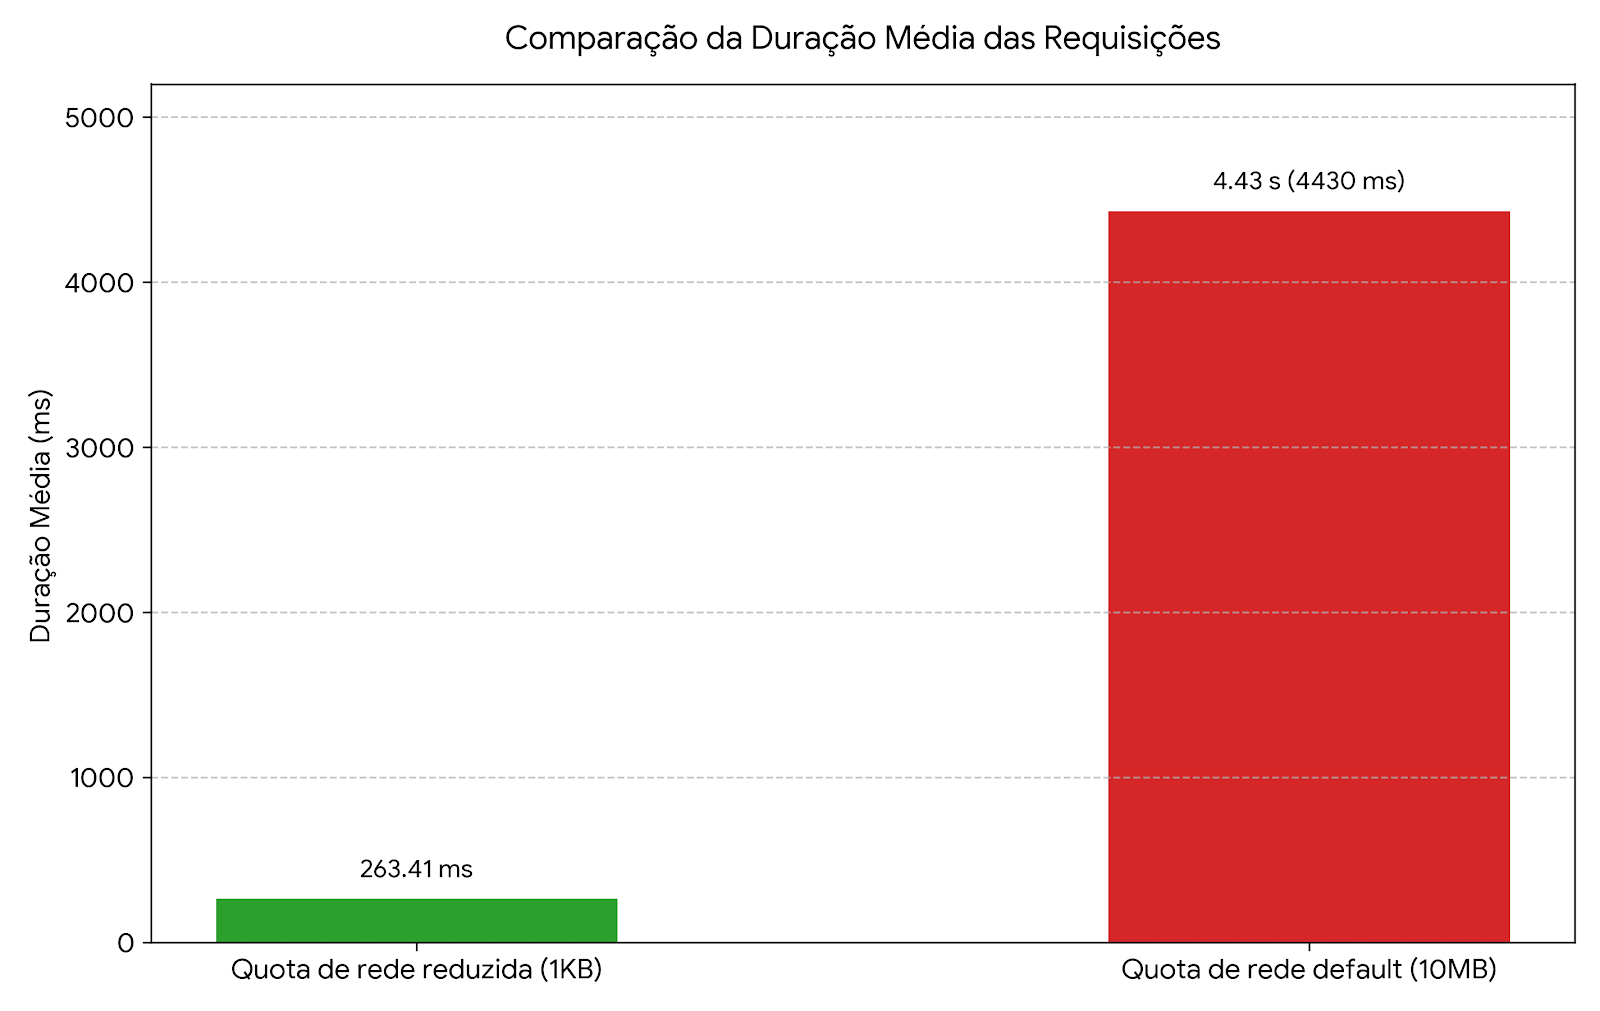
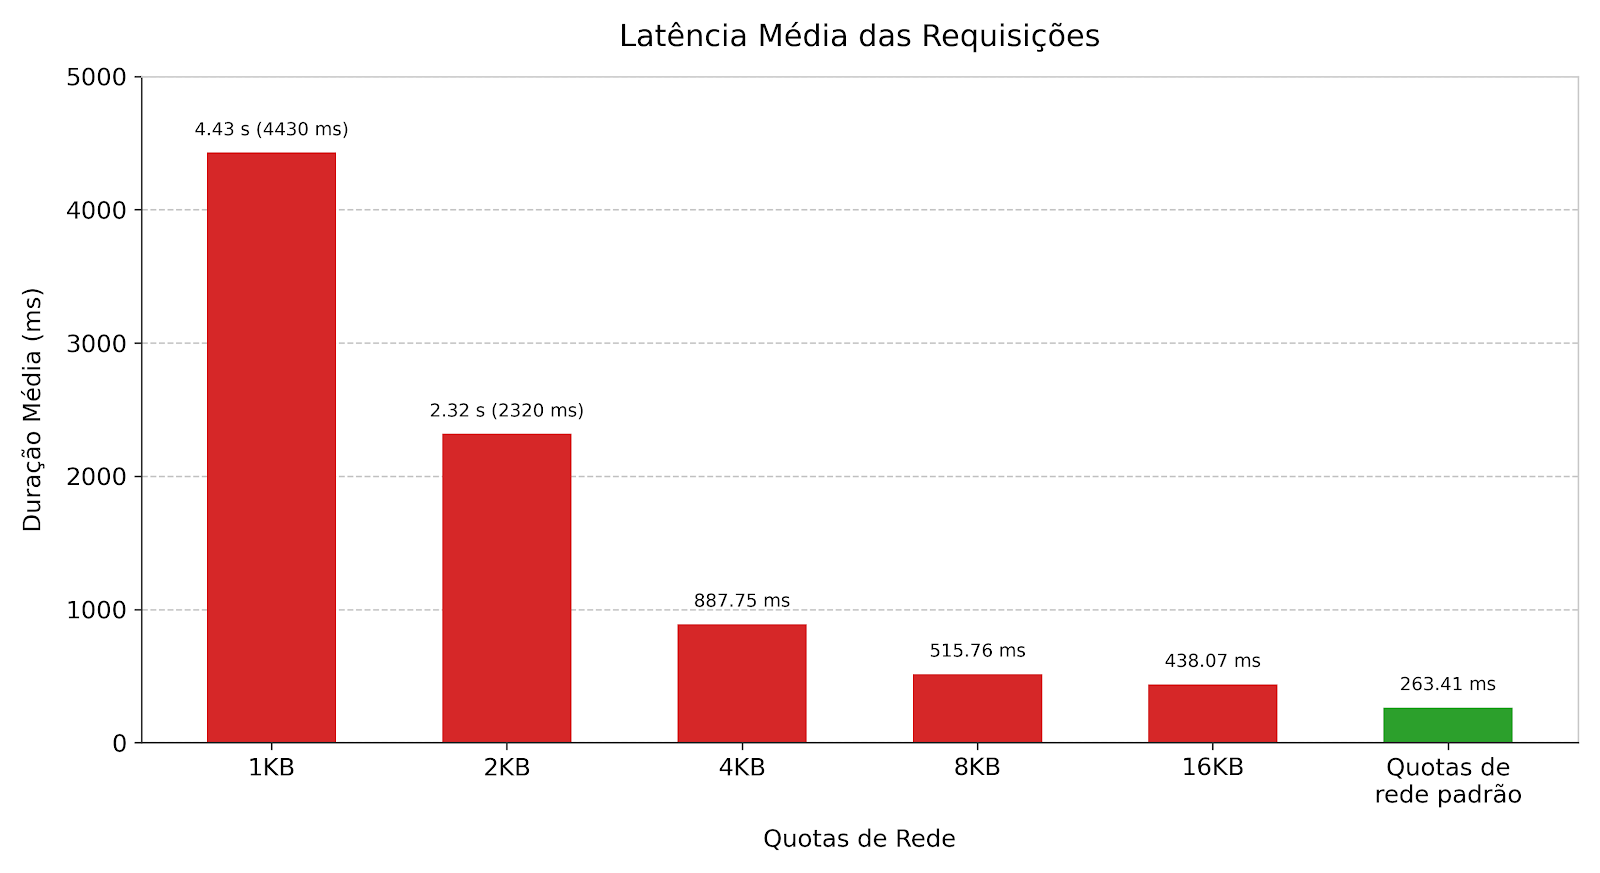
Finalização experimentos de quotas de rede; finalização descrição e resultados dos experimentos de quotas

diff --git a/latex-template/tcc.tex b/latex-template/tcc.tex
@@ -120,13 +120,14 @@
       \item \textbf{Intervalo}: Entre as requisições de cada usuário virtual foi adicionado uma pausa de 1 segundo, assim simulando o comportamento de uso mais realista.
     \end{itemize}
 
-    \item \textbf{Quotas}: Foi avaliado throughput e latência da aplicação produtora em dois cenários. A fim de entender como a regulagem da vazão em picos de carga funciona via Apache Kafka. Os dois cenários contam com uma aplicação produtora, 1 broker com fator de replicação 1, 3 partições por tópico, quotas de rede por produtor para 1024 bytes (apenas configurado para segundo cenário), mantendo as demais configurações nos valores padrões definidos pela própria ferramenta. Nos experimentos não foram utilizados consumidores.
+    \item \textbf{Quotas}: Foi avaliado throughput e latência da aplicação produtora em alguns cenários. A fim de entender como a regulagem da vazão em picos de carga funciona via Apache Kafka. Os cenários contam com uma aplicação produtora, 1 broker com fator de replicação 1, 3 partições por tópico, quotas de rede por produtor variando de 1KB até 16KB, e comparante com a configuração de quotas de rede padrão. Mantendo as demais configurações nos valores padrões definidos pela própria ferramenta. Nos experimentos não foram utilizados consumidores.
     O planejamento do experimento definiu os seguintes parâmetros:
     \begin{itemize}
       \item \textbf{Subida}: Um período inicial de 10 segundos para atingir a carga máxima de 200 VUs;
       \item \textbf{Estabilidade}: Um período de 15 segundos em carga máxima;
       \item \textbf{Descida}: Um período de 10 segundos até chegar a 0 VUs;
-      \item \textbf{Intervalo}: Entre as requisições de cada usuário virtual foi adicionado uma pausa de 1 segundo, assim simulando o comportamento de uso mais realista.
+      \item \textbf{Intervalo}: Entre as requisições de cada usuário virtual foi adicionado uma pausa de 1 segundo, assim simulando o comportamento de uso mais realista;
+      \item \textbf{Quotas de redes}: Regulação das quotas de rede de 1KB/s até 16KB/s.
     \end{itemize}
 
 
@@ -135,8 +136,7 @@
   \end{enumerate}
 
   \section{Implementação das Aplicações}
-  Foram feitas duas implementações equivalentes: uma para produtor e outra consumidor. Para produtores foi criado um endpoint (HTTP - POST /produces) para recebimento de requisições para geração de eventos. Para consumidores foi colocado um timeout de 2 segundos simulando um processamento para cada evento/requisição. No cenário de uso do Apache Kafka os consumidores e produtores interagem diretamente com broker para envio e recebimento de eventos, neste cenário, não foi criado o endpoint na aplicação consumidora, pois a interação com broker é feita via polling após a inicialização da aplicação. Já no cenário sem o uso do Apache Kafka as aplicações interagem entre elas diretamente via HTTP utilizando REST, neste cenário, a aplicação consumidora expõe um endpoint (HTTP - POST /consumes) para recebimento de requisições do produtor.
-  Nas implementações a distinção existe no fato da interação com Apache Kafka para um dos cenários.
+  Foram feitas duas implementações equivalentes: uma para produtor e outra consumidor. Para produtores foi criado um endpoint (HTTP - POST /produces) para recebimento de requisições para geração de eventos. Para consumidores foi colocado um timeout de 2 segundos simulando um processamento para cada evento/requisição. No cenário de uso do Apache Kafka os consumidores e produtores interagem diretamente com broker para envio e recebimento de eventos, neste cenário, não foi criado o endpoint na aplicação consumidora, pois a interação com broker é feita via polling após a inicialização da aplicação. Já no cenário sem o uso do Apache Kafka as aplicações interagem entre elas diretamente via HTTP utilizando REST, neste cenário, a aplicação consumidora expõe um endpoint (HTTP - POST /consumes) para recebimento de requisições do produtor. Nas implementações a distinção existe no fato da interação com Apache Kafka para um dos cenários.
 
   \section{Resultado dos Experimentos}
 
@@ -168,25 +168,27 @@
   \end{figure}
 
   \subsection{Quotas}
-  Nos gráficos das figuras \ref{fig:quotasThroughputComparison} e \ref{fig:quotasLatencyComparison}, observa-se o throughput e a latência dos produtores em ambos os cenários com quotas reduzidas para 1KB e com quotas padrão. Os experimentos contaram com um total de 35 segundos de execução dos testes de carga, além de alguns segundos iniciais e finais para estabilização das aplicações.
+  Nas figuras \ref{fig:quotasThroughputComparison} e \ref{fig:quotasLatencyComparison}, observam-se o throughput e a latência dos produtores em cenários com restrições gradiaos de quotas de rede, variando de 1KB/s até 16KB/s, em comparação ao cenário com quotas de rede padrão. Os experimentos contaram com um total de 35 segundos de execução dos testes de carga, além de alguns segundos iniciais e finais para estabilização das aplicações.
 
-  Analisando os gráficos dos experimentos, nota-se um throughput cerca de 4 vezes superior na aplicação com as configurações padrão para quotas do que a aplicação com a quota reduzida. A redução das quotas fez com que a aplicação gerasse 1056 eventos para o broker (cerca de 28 eventos por segundo), enquanto a aplicação sem quotas gerou 4038 (cerca de 113 eventos por segundo).
+  Analisando a figura \ref{fig:quotasThroughputComparison}, nota-se um crescimento diretamente proprocional do throughput de acordo com as configurações de quotas de rede. Na restrição mais severa de 1KB/s a aplicação gerau 1056 eventos para o broker (cerca de 28 eventos por segundo). Essa taxa gradativamente foi aumentando até chegar próximo da configuração de padrão de quotas. Com quotas de rede configurada em 16KB/s foram gerados 3553 eventos (cerca de 99 eventos por segundo), contra 4038 (cerca de 113 eventos por segundo) com a configuração padrão. Em comparação entre o cenário com maior restrição 1KB/s para configutação padrão houve uma redução de cerca de 75,3\% do throughput.
 
   \begin{figure}[htbp]
     \centering
     \includegraphics[width=0.5\textwidth]{quotas-throughput-comparison.png}
-    \caption{Comparação entre throughput entre cenários.}
+    \caption{Comparação entre throughput nos cenários.}
     \label{fig:quotasThroughputComparison}
   \end{figure}
 
-  É notado junto uma latência superior na aplicação utilizando quotas reduzidas com uma latência média de 4,43 segundos, contra 263 milissegundos da aplicação com Apache Kafka com a configuração de quotas padrão. Esse comportamento ocorre ao atingir o limite de 1 KB/s, o broker adiciona um tempo de atraso na resposta de confirmação de recebimento ao produtor. O atraso de confirmação bloqueia as threads da aplicação produtora e propaga o backpressure até os clientes geradores dos eventos, desacelerando a geração de novos eventos e evitando o acúmulo de requisições. A definição de quotas demonstra ser um mecanismo eficaz de backpressure a nível de broker, impedindo que um grupo de produtores sobrecarregue o sistema e comprometa o desempenho das aplicações consumidoras.
+  A latência figura \ref{fig:quotasLatencyComparison} apresentou um comportamento inversamente proporcional as quotas de rede. No cenário de 1KB/s a latência média das requisições foram de 4,43 segundos, reduzindo para 0,438 segundos com 16KB/s, contra 0,263 segundos no ambiente com configuração de quotas padrão. Desta forma, a aplicação com restrição para 1KB/s aumentou a latência cerca de 16,8 vezes. Esse aumento de latência nos cenários ocorre quando o limite em KB/s é atingido, assim o broker adiciona um tempo de atraso na resposta de confirmação de recebimento ao produtor (acknowledgment). O atraso de confirmação bloqueia as threads da aplicação produtora, a qaul passa a acumular os eventos em seu buffer interno, caso esse buffer exceda o limite configurado de memória e tempo a aplicação lança uma exceção e os eventos são perdidos (nos experimentos esse cenário não ocorreu).
 
   \begin{figure}[htbp]
     \centering
     \includegraphics[width=0.5\textwidth]{quotas-latency-comparison.png}
-    \caption{Comparação entre latência entre cenários.}
+    \caption{Comparação entre latência nos cenários.}
     \label{fig:quotasLatencyComparison}
   \end{figure}
+
+  Os resultados dos experimentos de quotas de rede demonstram como a estratégia é eficaz para o backpressure a nível de broker. Essa abordagem impede que um grupo de produtores monopolize a utilização do broker, além de impedir o crescimento desordenado de eventos.
 
   \section{Conclusão}
 
